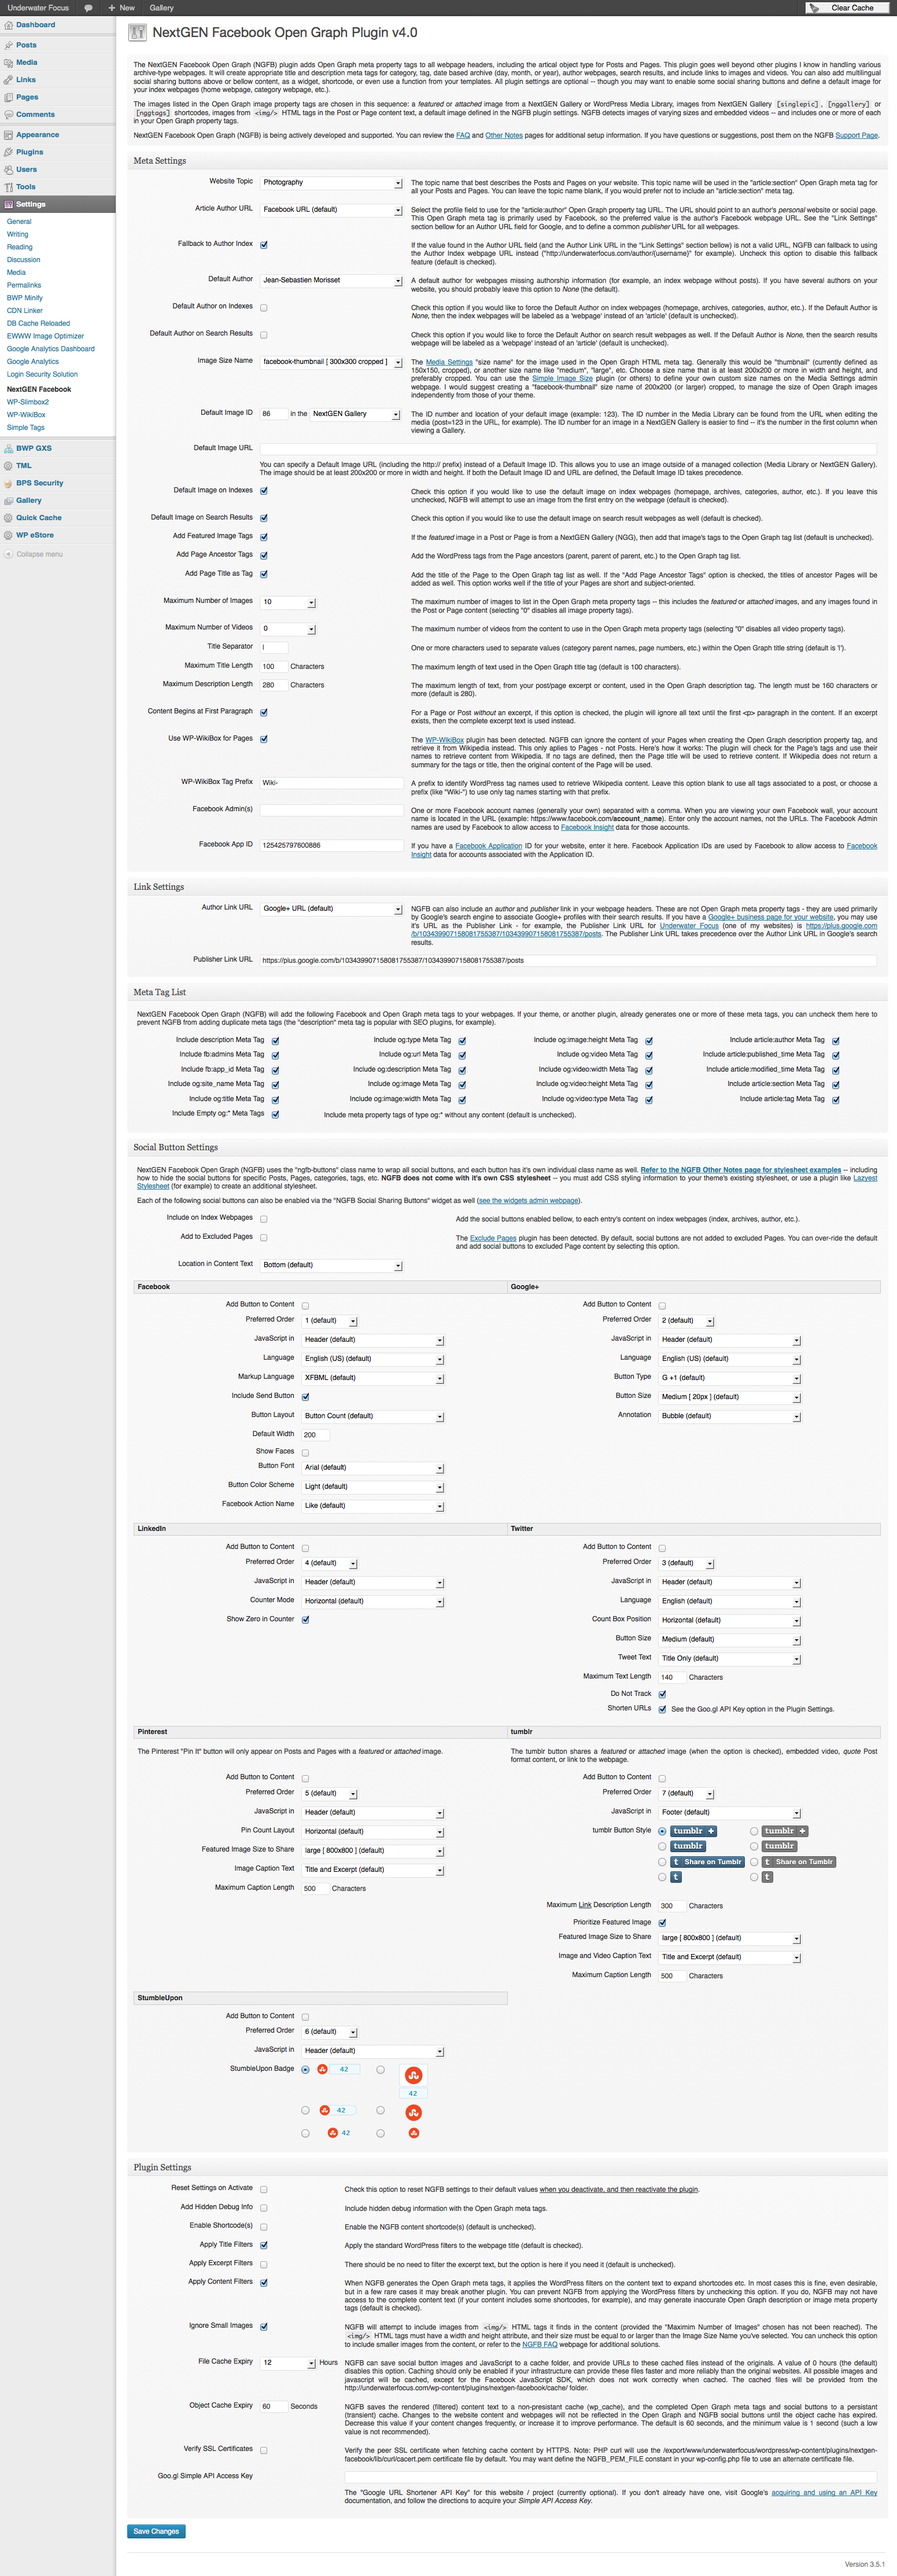
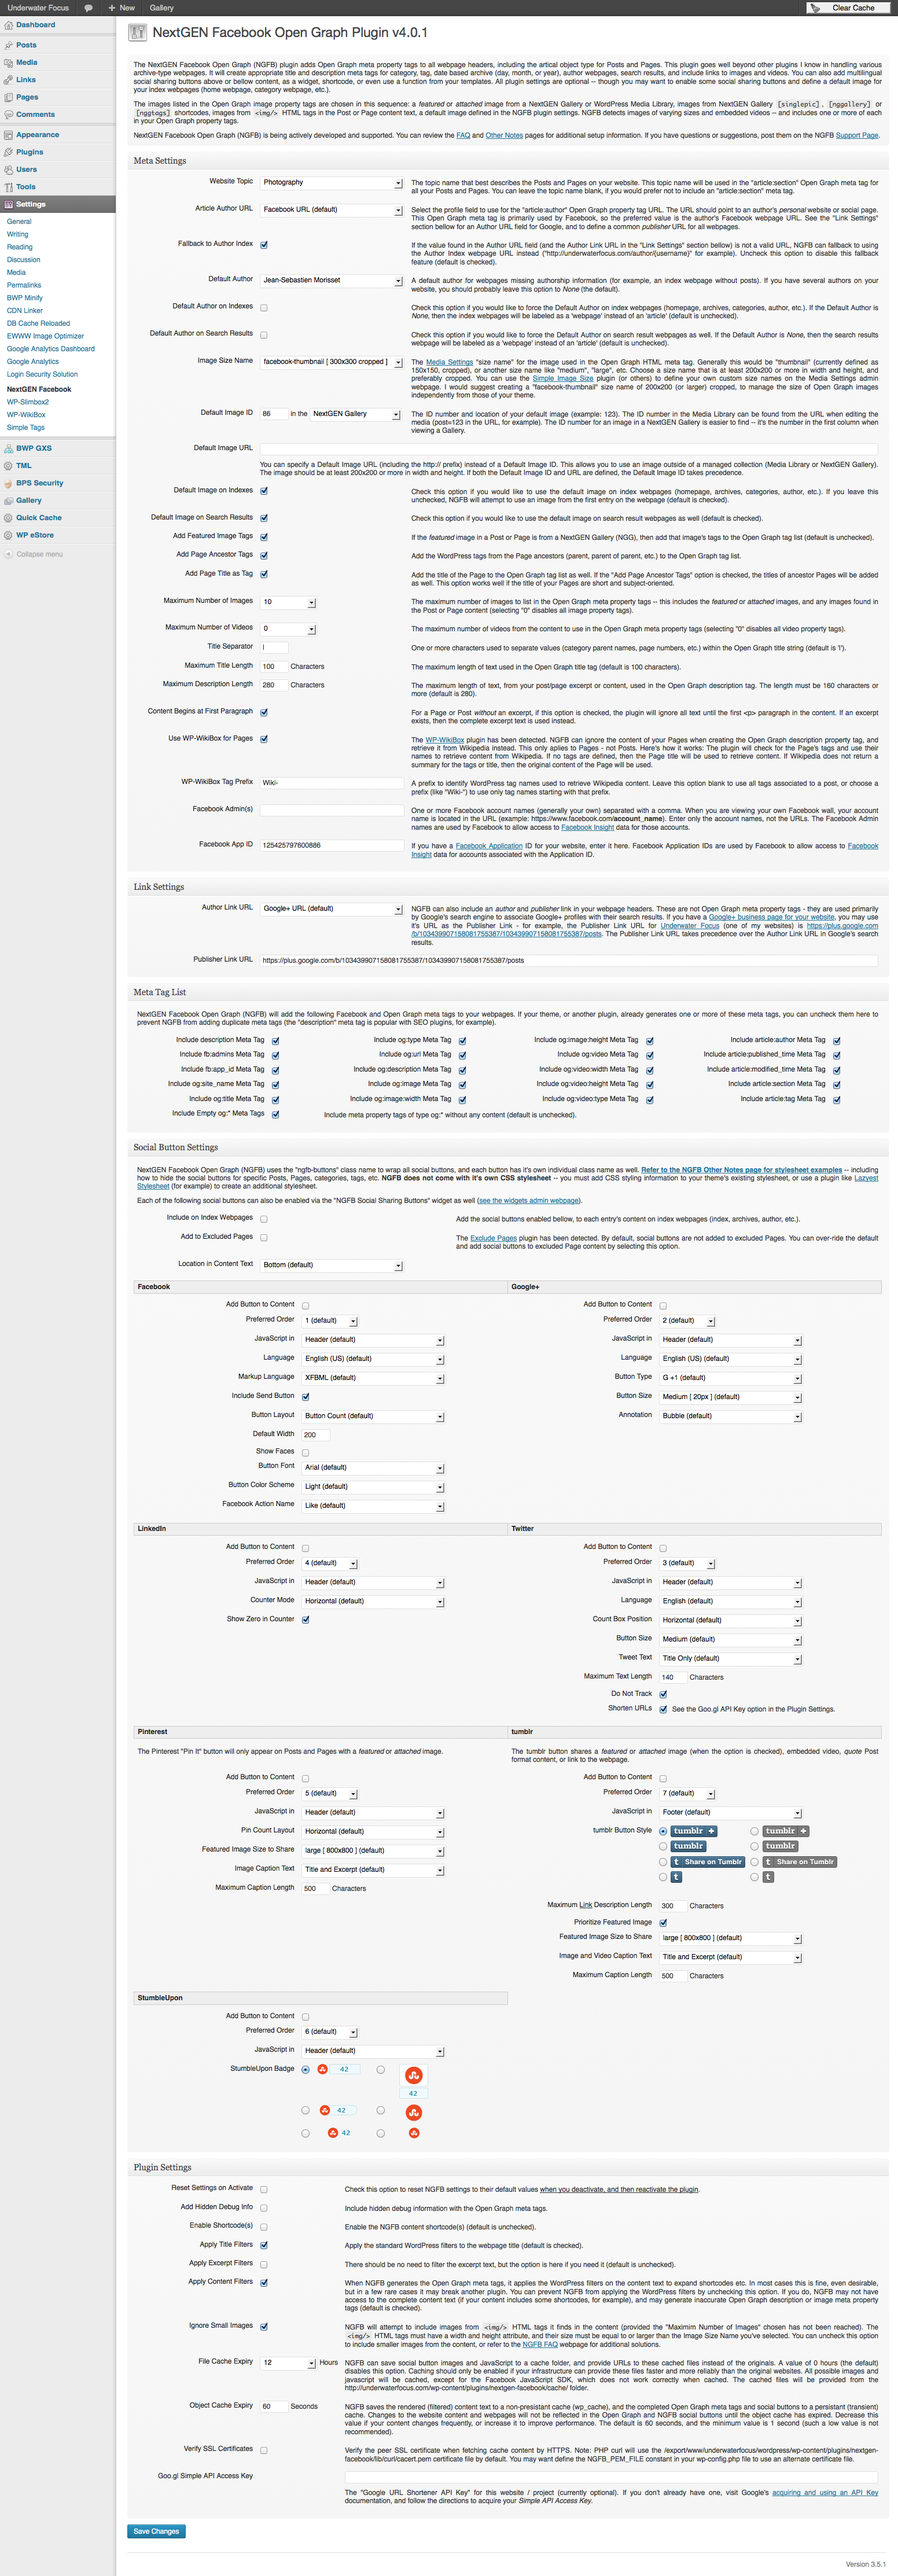
new 4.0.1 tag
git-svn-id: https://plugins.svn.wordpress.org/nextgen-facebook/trunk@697416 b8457f37-d9ea-0310-8a92-e5e31aec5664

diff --git a/nextgen-facebook.php b/nextgen-facebook.php
@@ -3,7 +3,7 @@
 Plugin Name: NextGEN Facebook Open Graph
 Plugin URI: http://surniaulula.com/nextgen-facebook-open-graph/
 Description: Adds complete Open Graph meta tags for Facebook, Google+, Twitter, LinkedIn, etc., plus optional social sharing buttons in content or widget.
-Version: 4.0
+Version: 4.0.1
 Author: Jean-Sebastien Morisset
 Author URI: http://surniaulula.com/
 
@@ -27,7 +27,7 @@ if ( ! class_exists( 'ngfbPlugin' ) ) {
 
 	class ngfbPlugin {
 
-		var $version = '4.0';		// for display purposes
+		var $version = '4.0.1';		// for display purposes
 		var $opts_version = '18';	// increment when adding/removing $default_options
 		var $is_active = array();	// assoc array for function/class/method checks
 		var $admin_msgs_inf = array();
